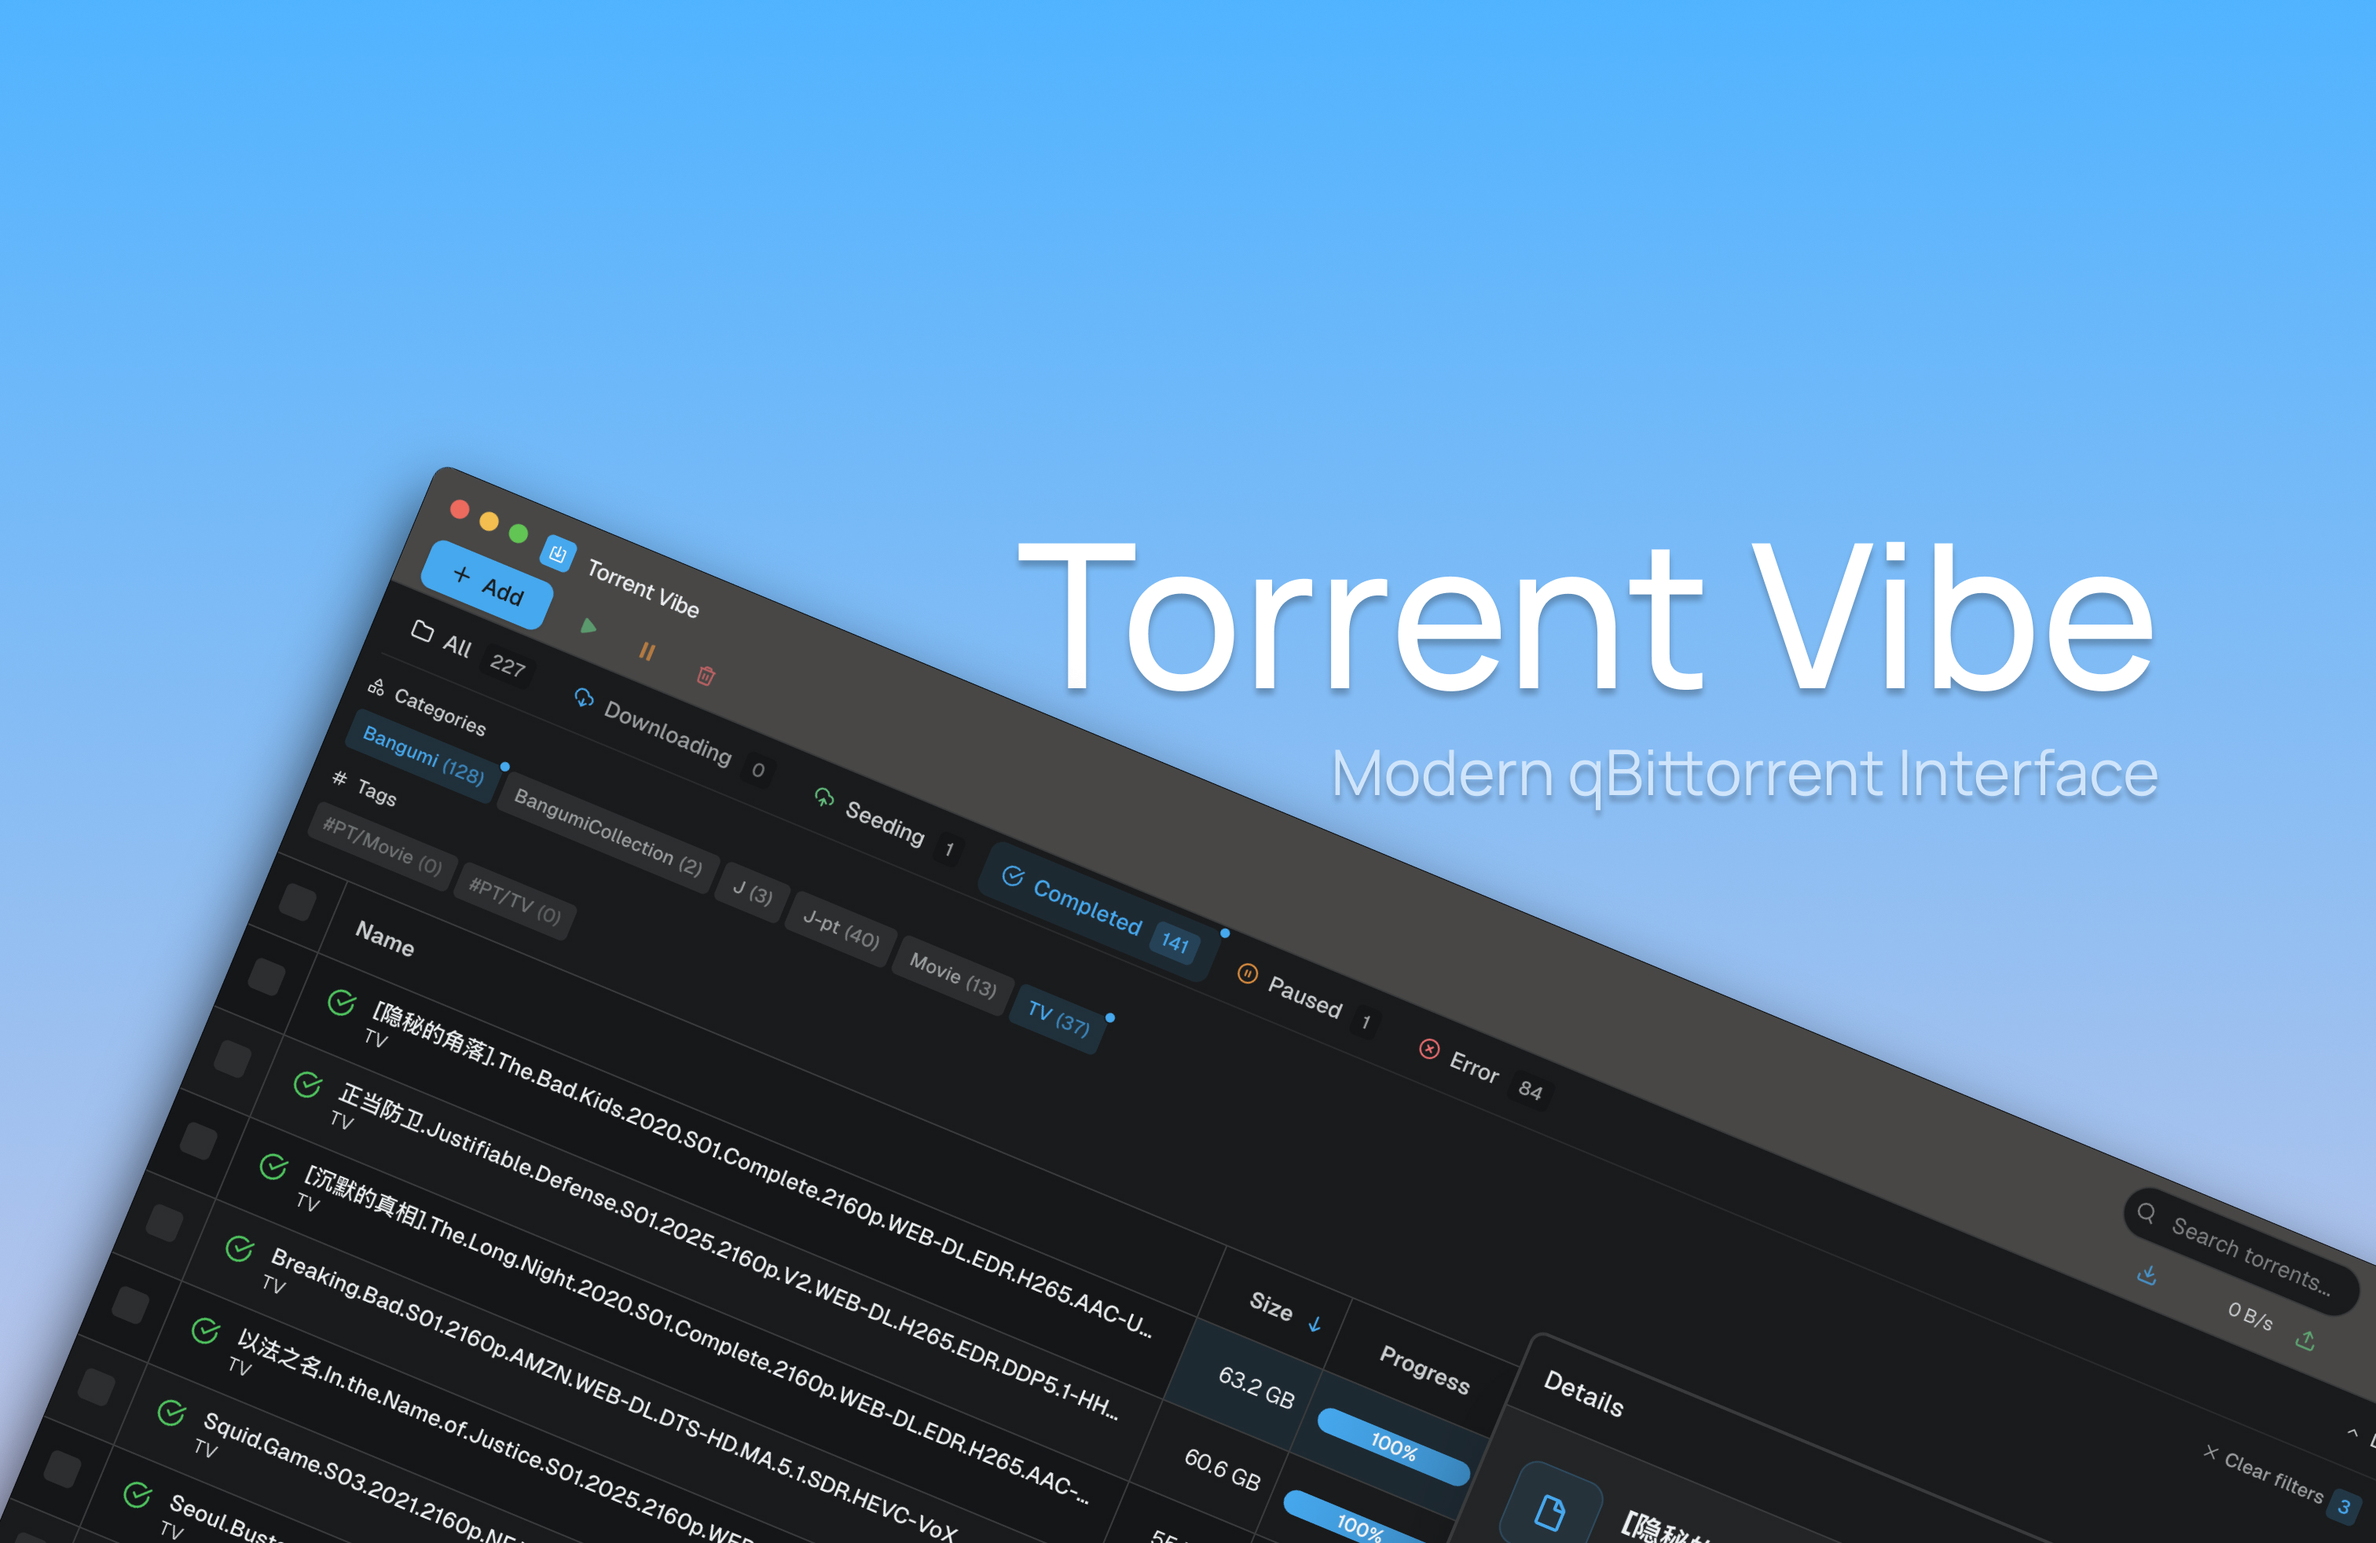
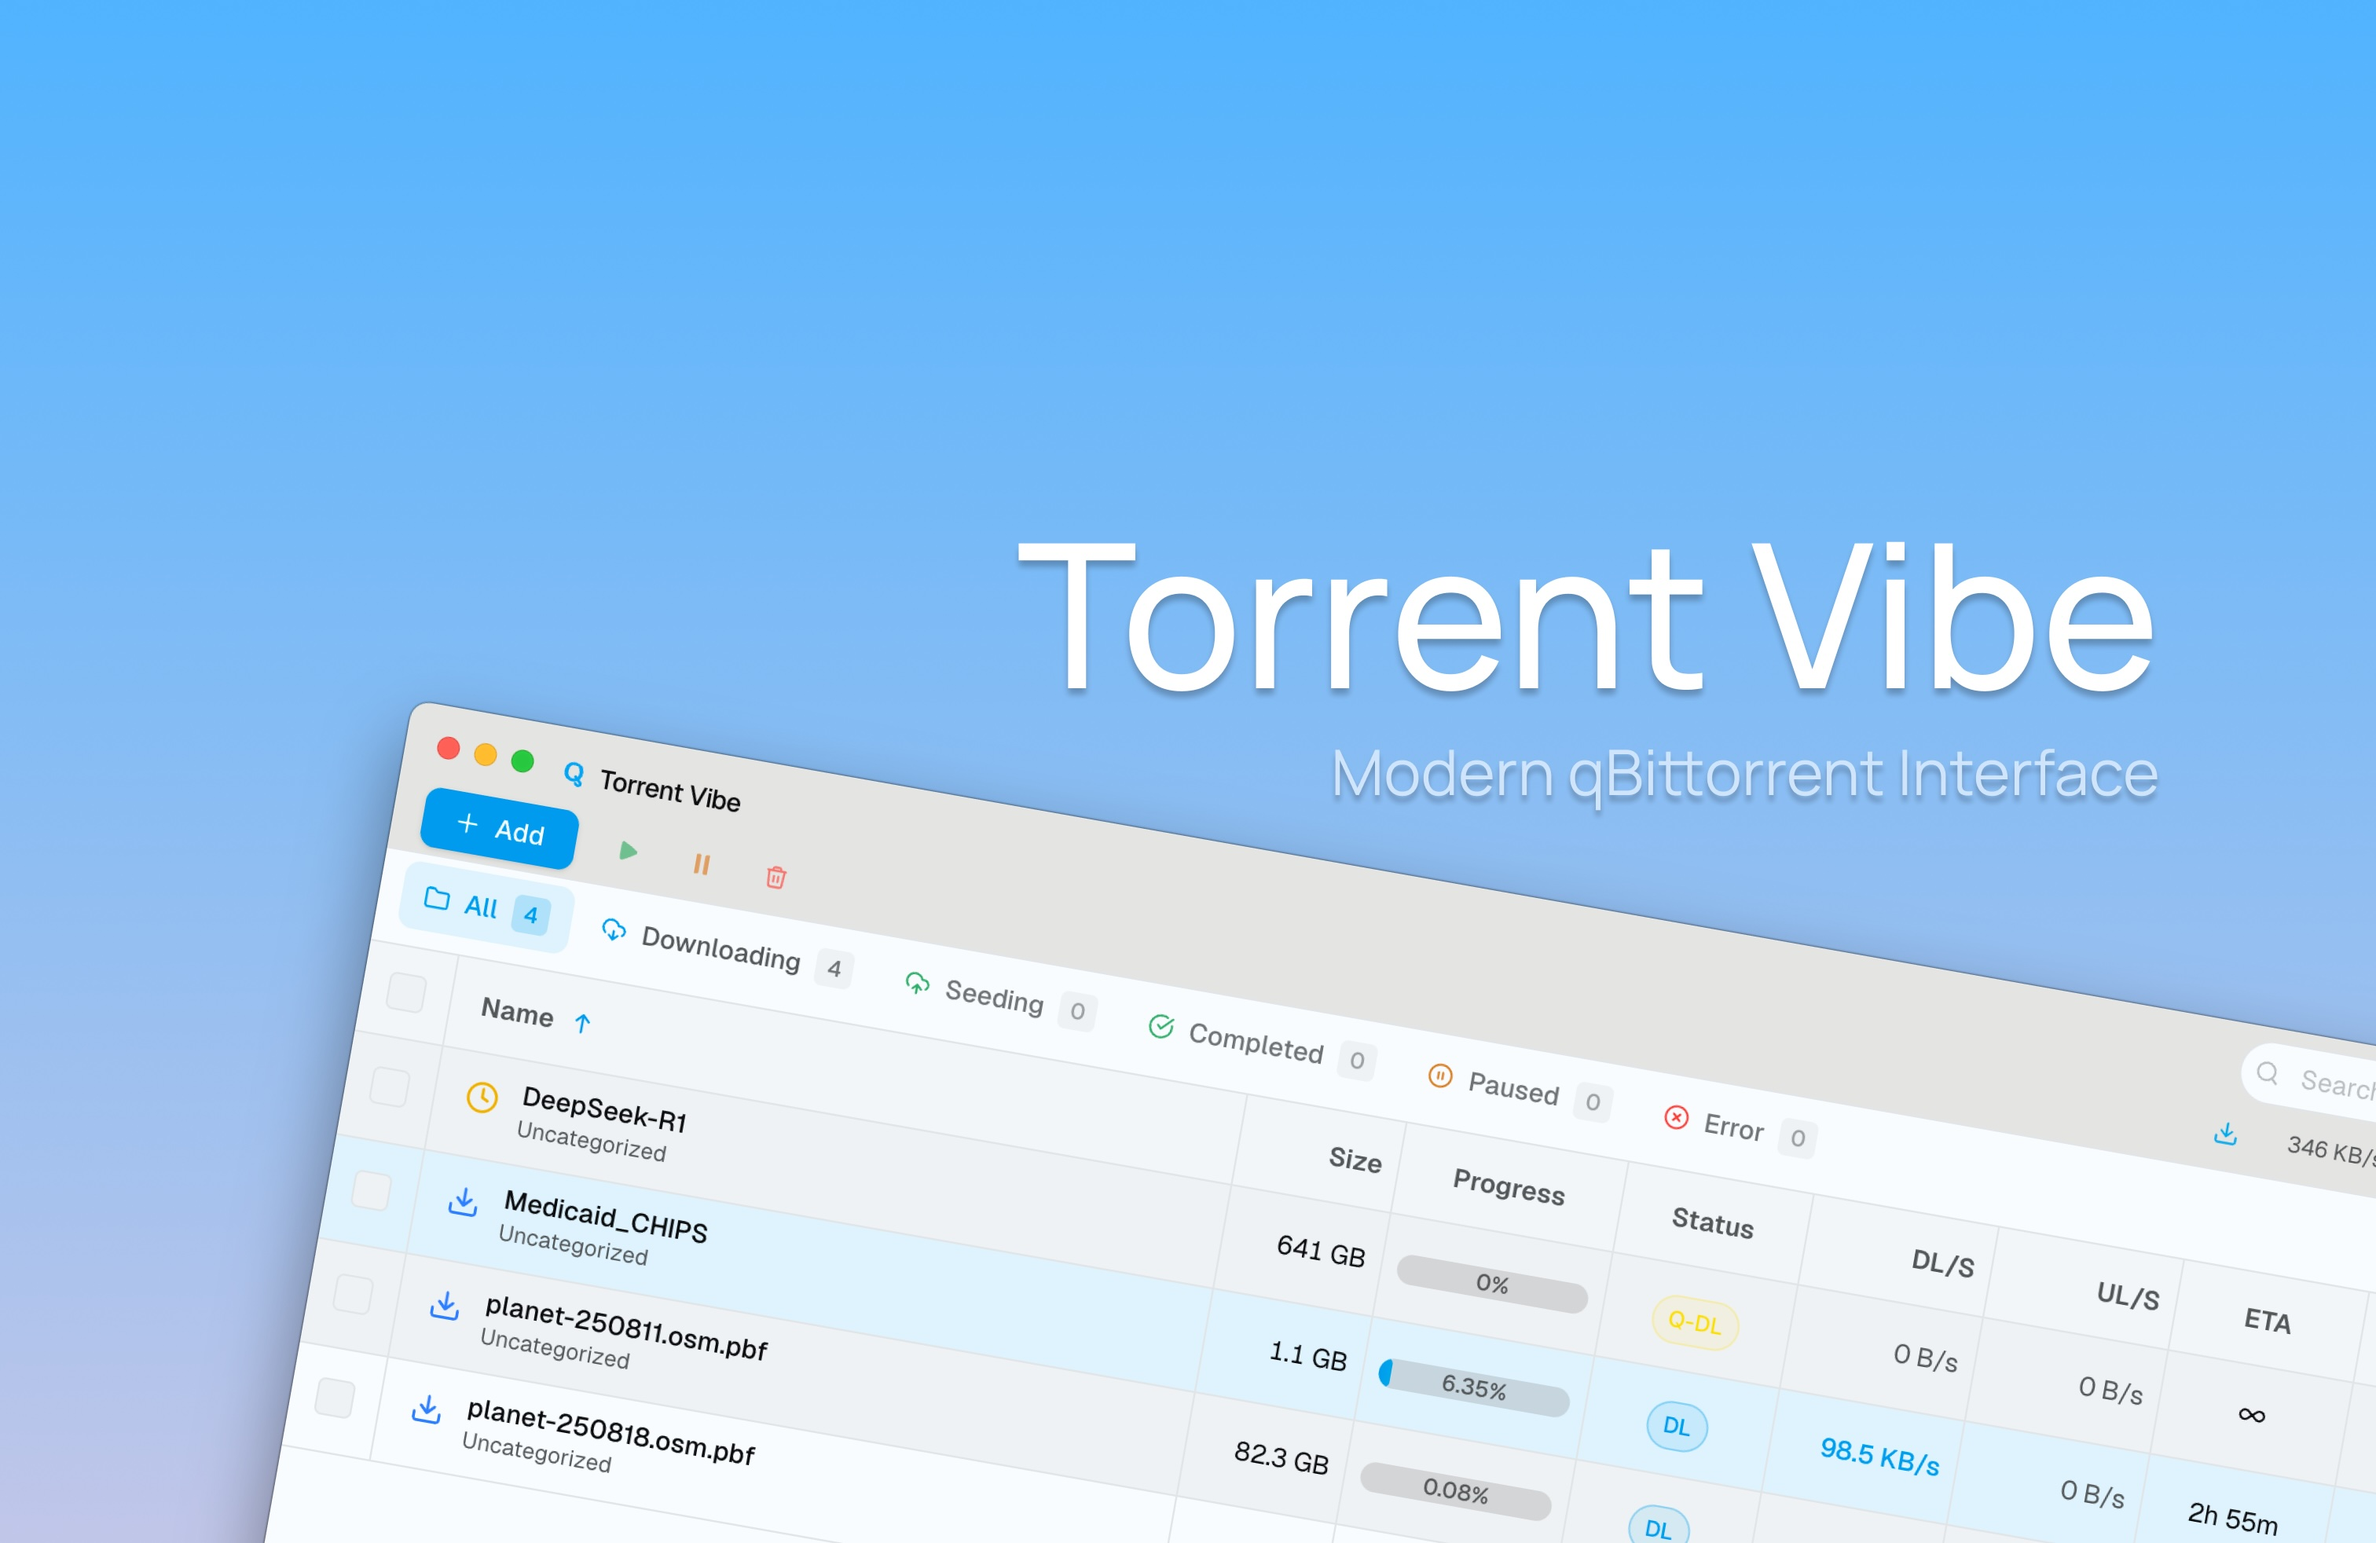
Update README and SEO configurations, change author details to 'Torrent Vibe Team', and replace image links for consistency. Updated funding information to include additional GitHub sponsor. Modified HeroSection and LandingFooter components to reflect new branding.

diff --git a/src/lib/seo.ts b/src/lib/seo.ts
@@ -25,9 +25,8 @@ export const seoConfig = {
     description:
       'Torrent Vibe is a modern qBittorrent WebUI with enhanced performance and user experience. Manage your torrents with our intuitive web interface featuring real-time monitoring and advanced controls.',
     url: 'https://torrent-vibe.app',
-    image: 'https://torrent-vibe.app/og-image.png',
-    author: 'Innei',
-    twitterHandle: '@innei',
+    image: 'https://torrent-vibe.app/og.jpg',
+    author: 'Torrent Vibe Team',
   },
 
   // Open Graph default values
@@ -48,7 +47,7 @@ export const seoConfig = {
         'Modern QB WebUI for qBittorrent with enhanced performance and intuitive design',
       founder: {
         '@type': 'Person',
-        name: 'Innei',
+        name: 'Torrent Vibe Team',
       },
     },
 
@@ -109,7 +108,7 @@ export const pageTemplates = {
 // Generate meta tags for specific pages
 export function generateMetaTags(template: keyof typeof pageTemplates) {
   const page = pageTemplates[template]
-  const {site} = seoConfig
+  const { site } = seoConfig
 
   return {
     title: page.title,

diff --git a/src/modules/landing/components/LandingFooter.tsx b/src/modules/landing/components/LandingFooter.tsx
@@ -53,10 +53,10 @@ export const LandingFooter: FC = () => {
             <p className="text-text-secondary text-sm mt-1">
               Created by{' '}
               <a
-                href="https://innei.in"
+                href="https://github.com/torrent-vibe"
                 className="text-accent hover:text-primary transition-colors"
               >
-                Innei
+                Torrent Vibe Team
               </a>
             </p>
           </m.div>

diff --git a/src/app/layout.tsx b/src/app/layout.tsx
@@ -16,9 +16,9 @@ export const metadata: Metadata = {
     'real-time monitoring',
     'cross-platform',
   ],
-  authors: [{ name: 'Innei' }],
-  creator: 'Innei',
-  publisher: 'Innei',
+  authors: [{ name: 'Torrent Vibe Team' }],
+  creator: 'Torrent Vibe Team',
+  publisher: 'Torrent Vibe Team',
   icons: {
     icon: '/favicon.png',
     apple: '/logo-192.png',

diff --git a/src/modules/landing/components/HeroSection.tsx b/src/modules/landing/components/HeroSection.tsx
@@ -6,7 +6,7 @@ import type { FC } from 'react'
 
 import { CanvasBackground } from '~/components/common/CanvasBackground'
 
-const Screenshot = 'https://object.innei.in/bed/2025/08/22/1755878366885.png'
+const Screenshot = 'https://object.innei.in/bed/2025/09/01/1756656617018.png'
 
 export const HeroSection: FC = () => {
   return (

diff --git a/readme.md b/readme.md
@@ -1,6 +1,6 @@
 # Torrent Vibe - Modern qBittorrent Client
 
-<img src="https://object.innei.in/bed/2025/08/22/1755878366885.png" alt="Torrent Vibe" />
+<img src="https://object.innei.in/bed/2025/09/01/1756656617018.png" alt="Torrent Vibe" />
 
 A modern, elegant web interface for qBittorrent that transforms your torrent management experience with enhanced performance, intuitive design, and cross-platform compatibility.
 
